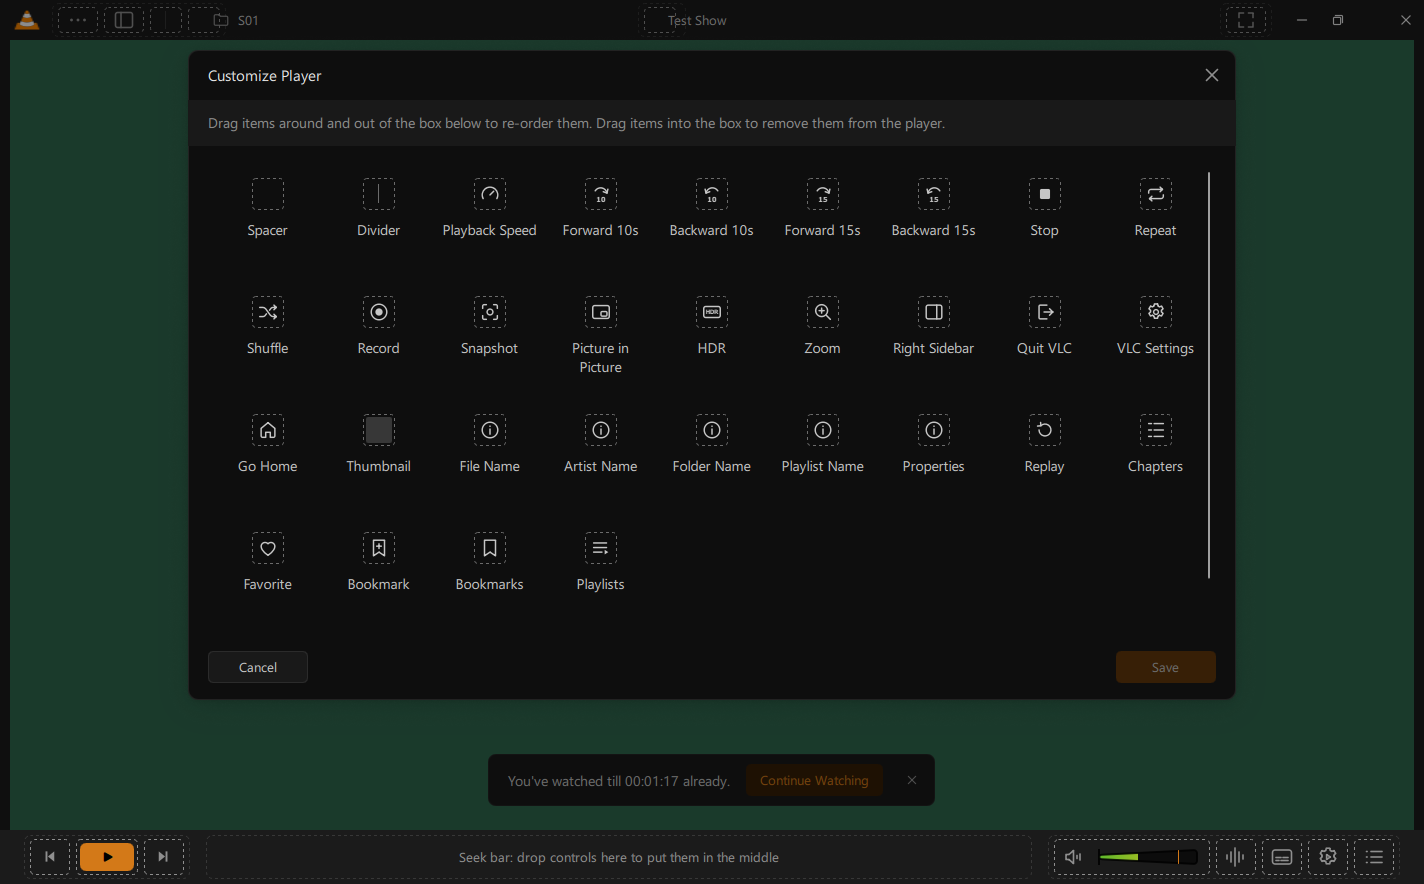
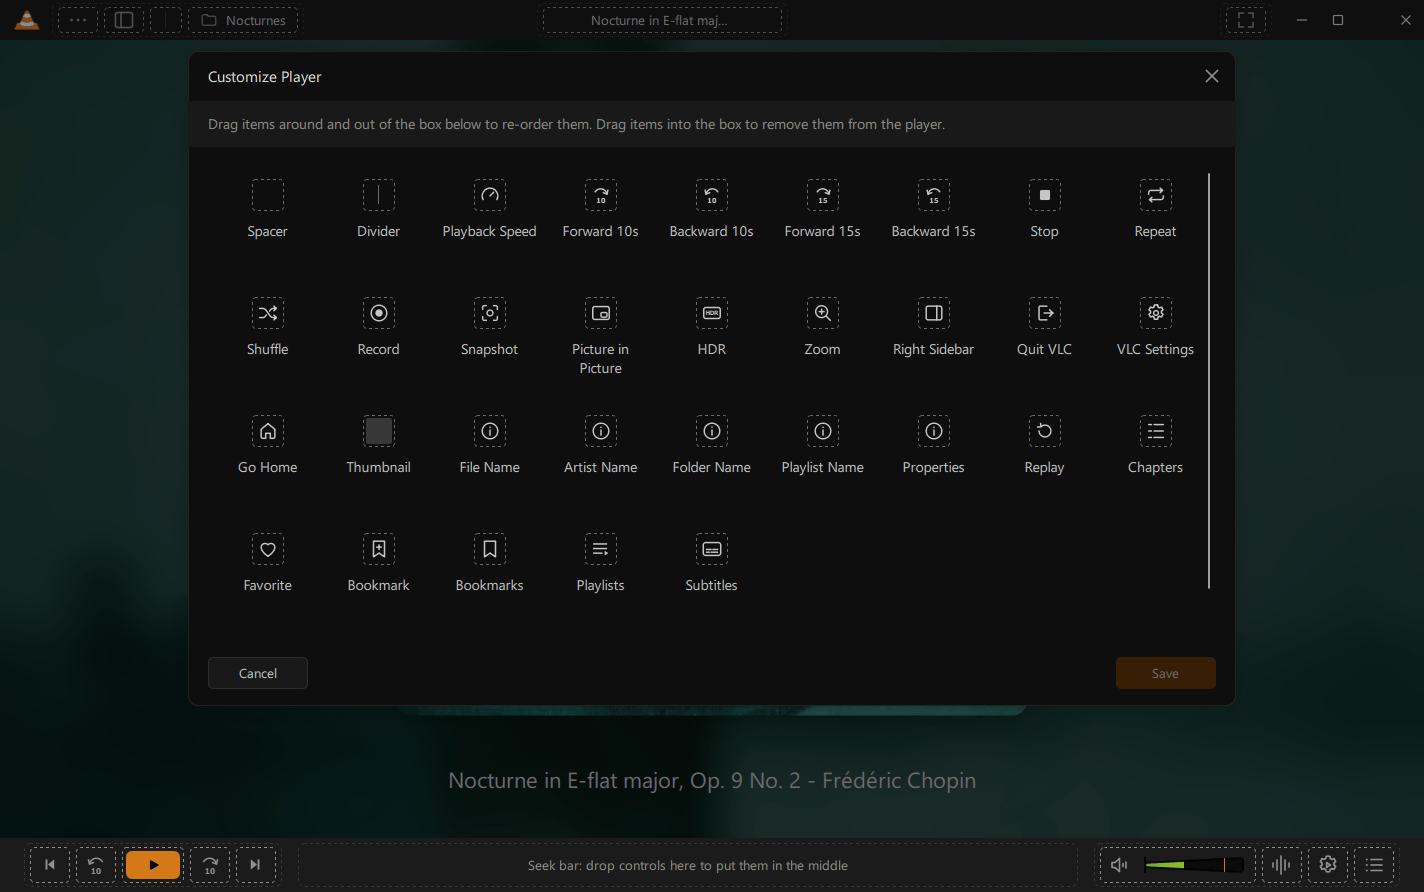
doc: redesign: screenshots with free films and music, their credits
The screenshots show Blender's open movies (Big Buck Bunny, Sintel, Tears
of Steel, Spring, Sprite Fright, Caminandes) and recordings of Chopin, Satie
and Beethoven with public domain paintings as covers, all from Wikimedia
Commons, credited with their licenses in the README. Adds the subtitle
timeline being moved, and makes the images four times smaller.

diff --git a/README.md b/README.md
@@ -10,8 +10,9 @@ Go watch the video: it explains the reasoning behind every screen far better
 than this page.
 
 This is an unofficial, experimental fork. It is not affiliated with or endorsed
-by Juxtopposed or by VideoLAN. The screenshots below were made with generated
-test media.
+by Juxtopposed or by VideoLAN. The screenshots below show Blender's open
+movies and public-domain music, all under free licenses (see
+[Media in the screenshots](#media-in-the-screenshots)).
 
 ![Home](doc/redesign/home.png)
 
@@ -20,11 +21,14 @@ test media.
 - A rounded navigation panel: Home, Videos, Music, Network, Playlists, Recent
   and "Add item" (a folder, a network stream or a new playlist). Any folder,
   playlist or album can be pinned there ("..." > Pin to Sidebar).
-- **Home**: Continue Watching, Listen Again (title and artist), Frequently
-  Visited Folders, then the newest videos and music.
-- **Videos are the folders on the disk**: *Videos › Shows › The Wand › S01*,
-  each part of the path a step back. A folder holding a single folder is
-  skipped. All the videos, as one list, are in the "..." menu of the header.
+- **Home**: Continue Watching (the videos left part of the way, the last
+  watched first), Listen Again (title and artist), Frequently Visited Folders,
+  then the newest videos and music.
+- **Videos are the folders on the disk**: *Videos › Shows › Caminandes*, each
+  part of the path a step back. A folder holding a single folder is skipped.
+  A folder's card shows pictures of the videos in it (four as a mosaic) and
+  how many there are. All the videos, as one list, are in the "..." menu of the
+  header.
 - A header with back/forward, the path, the item count, sorting (including
   *Unwatched First* and *Watched First*), the grid/list switch, search, "+" and
   "...".
@@ -43,7 +47,7 @@ test media.
   File Explorer, Go to Source, Add Subtitle Tracks, Properties & Metadata.
 
 ![Library, grid and mini player](doc/redesign/library-grid.png)
-![Library, list](doc/redesign/library-list.png)
+![Library, list (Music › Songs) and mini player](doc/redesign/library-list.png)
 ![Videos as folders](doc/redesign/library-folders.png)
 ![Library menu](doc/redesign/library-menu.png)
 
@@ -83,7 +87,7 @@ test media.
   Chapters tabs, and "+" to add files, a folder or a network stream. Ctrl+B
   adds a bookmark where the video is, without a dialog.
 - **Library next to the video**: it slides over the video and opens on the
-  folder of what plays (*... › The Wand › S01*), with a rail for Home, Videos
+  folder of what plays (*Videos › Movies*), with a rail for Home, Videos
   (the folders again), Music (Songs as folders, Albums, Artists, Genres),
   Network, Playlists and Recent. Drag its files to the queue.
 - **Continue watching**: for a video left halfway, "You've watched till
@@ -95,6 +99,7 @@ test media.
 
 ![Player and settings sidebar](doc/redesign/player-sidebar.png)
 ![Waveform, subtitle timeline and metadata](doc/redesign/player-overlays.png)
+![Moving the subtitles on the zoomed timeline](doc/redesign/subtitle-timeline.png)
 ![Seek preview](doc/redesign/seek-preview.png)
 ![Library next to the video](doc/redesign/player-library.png)
 ![Its Home](doc/redesign/player-library-home.png)
@@ -205,6 +210,55 @@ contribs:
   before them, in `vlc.exe` and in `vlc-preparser.exe` (which reads files for the
   media library, the playlist and the thumbnails).
 - OpenSubtitles needs a TLS plugin (`-Dgnutls=enabled`).
+
+## Media in the screenshots
+
+Free media, from Wikimedia Commons. For the screenshots the films were cut to
+clips and the recordings tagged as albums, with the paintings as covers. The
+media files are not in this repository. The screenshots that show these works
+are shared under the same licenses as the works.
+
+Films by the [Blender Foundation](https://studio.blender.org/films/):
+
+- *[Big Buck Bunny](https://commons.wikimedia.org/wiki/File:Big_Buck_Bunny_4K.webm)*
+  (2008), *[Sintel](https://commons.wikimedia.org/wiki/File:Sintel_movie_4K.webm)*
+  (2010) and *[Tears of Steel](https://commons.wikimedia.org/wiki/File:Tears_of_Steel_in_4k_-_Official_Blender_Foundation_release.webm)*
+  (2012): [CC BY 3.0](https://creativecommons.org/licenses/by/3.0/). The English
+  subtitles of Sintel are its
+  [timed text on Commons](https://commons.wikimedia.org/wiki/TimedText:Sintel_movie_4K.webm.en.srt).
+- *[Spring](https://commons.wikimedia.org/wiki/File:Spring_-_Blender_Open_Movie.webm)*
+  (2019) and *[Sprite Fright](https://commons.wikimedia.org/wiki/File:Sprite_Fright_-_Blender_Open_Movie-full_movie.webm)*
+  (2021): [CC BY 4.0](https://creativecommons.org/licenses/by/4.0/).
+- *Caminandes*: *[Llama Drama](https://commons.wikimedia.org/wiki/File:Caminandes-_Llama_Drama_-_Short_Movie.ogv)*
+  and *[Llamigos](https://commons.wikimedia.org/wiki/File:Caminandes_3_-_Llamigos_-_Blender_Animated_Short.webm)*:
+  [CC BY 3.0](https://creativecommons.org/licenses/by/3.0/);
+  *[Gran Dillama](https://commons.wikimedia.org/wiki/File:Caminandes_-_Gran_Dillama_-_Blender_Foundation%27s_new_Open_Movie.webm)*:
+  [CC BY-SA 3.0](https://creativecommons.org/licenses/by-sa/3.0/).
+
+Recordings:
+
+- Frédéric Chopin, Nocturnes op. 9 no. 2, op. 15 no. 1 and op. 27 no. 2,
+  played by Patrizia Prati
+  ([1](https://commons.wikimedia.org/wiki/File:Fryderyk_Chopin_-_Nocturne_op._9_n.2_Es-dur_-_Patrizia_Prati.ogg),
+  [2](https://commons.wikimedia.org/wiki/File:Fryderyk_Chopin_-_Nocturne_op._15_n.1_F-dur_-_Patrizia_Prati.ogg),
+  [3](https://commons.wikimedia.org/wiki/File:Fryderyk_Chopin_-_Nocturne_op._27_n.2_Des-dur_-_Patrizia_Prati.ogg)):
+  [CC BY-SA 4.0](https://creativecommons.org/licenses/by-sa/4.0/).
+- Erik Satie, Gymnopédies 1 to 3, played by Kevin MacLeod
+  ([1](https://commons.wikimedia.org/wiki/File:Kevin_MacLeod_-_Erik_Satie_Gymnopedie_No_1.ogg),
+  [2](https://commons.wikimedia.org/wiki/File:Kevin_MacLeod_-_Erik_Satie_Gymnopedie_No_2.ogg),
+  [3](https://commons.wikimedia.org/wiki/File:Kevin_MacLeod_-_Erik_Satie_Gymnopedie_No_3.ogg)):
+  [CC BY 3.0](https://creativecommons.org/licenses/by/3.0/).
+- Ludwig van Beethoven, Moonlight Sonata:
+  [first movement](https://commons.wikimedia.org/wiki/File:Ludwig_van_Beethoven_-_sonata_no._14_in_c_sharp_minor_%27moonlight%27,_op._27_no._2_-_i._adagio_sostenuto.ogg)
+  (Musopen, public domain);
+  [second](https://commons.wikimedia.org/wiki/File:Beethoven_Moonlight_2nd_movement.ogg)
+  and [third](https://commons.wikimedia.org/wiki/File:Beethoven_Moonlight_3rd_movement.ogg)
+  movements: [CC BY-SA 2.0 DE](https://creativecommons.org/licenses/by-sa/2.0/de/deed.en).
+
+Covers, paintings in the public domain: James McNeill Whistler,
+*[Nocturne: Blue and Gold – Old Battersea Bridge](https://commons.wikimedia.org/wiki/File:James_McNeill_Whistler_-_Nocturne_en_bleu_et_or.jpg)*;
+Claude Monet, *[Impression, Sunrise](https://commons.wikimedia.org/wiki/File:Claude_Monet,_Impression,_soleil_levant.jpg)*;
+Caspar David Friedrich, *[Wanderer above the Sea of Fog](https://commons.wikimedia.org/wiki/File:Caspar_David_Friedrich_-_Wanderer_above_the_sea_of_fog.jpg)*.
 
 ## About VLC
 
